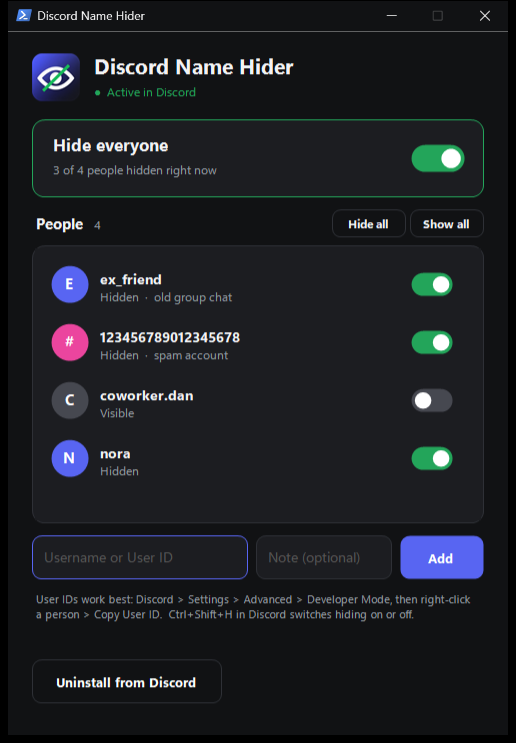
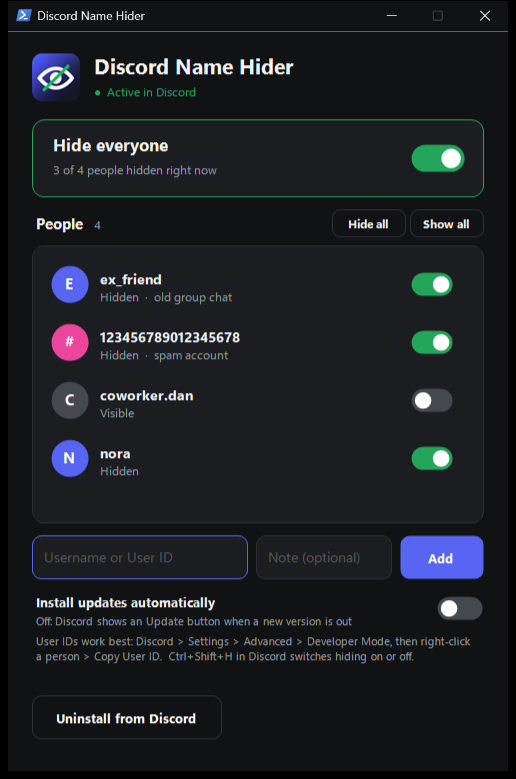
v1.5.0: one-click or automatic updates, daily Vencord check

diff --git a/plugin/hideUsers/native.ts b/plugin/hideUsers/native.ts
@@ -3,6 +3,7 @@
  * DiscordNameHider.exe edits, so changes apply live without a restart.
  */
 
+import { execFile } from "child_process";
 import { app, shell } from "electron";
 import { mkdirSync, readFileSync, renameSync, statSync, writeFileSync } from "fs";
 import { dirname, join } from "path";
@@ -29,6 +30,7 @@ export function writeState(_: unknown, text: string) {
 }
 
 const REPO = "rakawe86/discord-name-hider";
+const VERSION_RE = /^\d+(\.\d+)*$/;
 
 /** True when version a is newer than b ("1.4.10" > "1.4.9"). */
 function isNewer(a: string, b: string) {
@@ -45,7 +47,7 @@ export async function checkUpdate() {
         const res = await fetch(`https://api.github.com/repos/${REPO}/releases/latest`, { headers: { "User-Agent": "DiscordNameHider" } });
         if (!res.ok) return null;
         const latest = String((await res.json())?.tag_name ?? "").replace(/^v/, "");
-        return /^\d+(\.\d+)*$/.test(latest) && /^\d+(\.\d+)*$/.test(installed) && isNewer(latest, installed) ? latest : null;
+        return VERSION_RE.test(latest) && VERSION_RE.test(installed) && isNewer(latest, installed) ? latest : null;
     } catch {
         return null; // offline or GitHub down: try again later
     }
@@ -54,3 +56,50 @@ export async function checkUpdate() {
 export function openDownload() {
     shell.openExternal(`https://github.com/${REPO}/releases/latest`);
 }
+
+
+// Downloads the release exe from this project's GitHub and lets it refresh the installed files.
+// Discord keeps running; the new version is used from the next Discord start.
+async function downloadAndApply(version: string) {
+    if (!VERSION_RE.test(version)) return false;
+    try {
+        const res = await fetch(`https://github.com/${REPO}/releases/download/v${version}/DiscordNameHider.exe`);
+        if (!res.ok) return false;
+        const exe = Buffer.from(await res.arrayBuffer());
+        if (exe.length < 100_000 || exe[0] !== 0x4d || exe[1] !== 0x5a) return false; // must be a Windows program
+        const dir = join(process.env.LOCALAPPDATA ?? "", "DiscordNameHider", "updates");
+        mkdirSync(dir, { recursive: true });
+        const file = join(dir, `DiscordNameHider-v${version}.exe`);
+        writeFileSync(file + ".tmp", exe);
+        renameSync(file + ".tmp", file);
+        return await new Promise<boolean>(done =>
+            execFile(file, ["--update-files"], { timeout: 120_000, windowsHide: true }, err => done(!err)));
+    } catch {
+        return false;
+    }
+}
+
+export async function installUpdate(_: unknown, version: string) {
+    return downloadAndApply(String(version));
+}
+
+export function restartDiscord() {
+    app.relaunch();
+    app.exit(0);
+}
+
+/** "Update automatically" mode. Runs in Discord's main process, so it still works when Discord's window hangs. */
+export async function runAutoUpdate() {
+    try {
+        if (JSON.parse(readFileSync(STATE_FILE, "utf8"))?.autoUpdate !== true) return false;
+        const version = await checkUpdate();
+        return version ? await downloadAndApply(version) : false;
+    } catch {
+        return false;
+    }
+}
+
+function autoUpdateLoop() {
+    runAutoUpdate().finally(() => setTimeout(autoUpdateLoop, 6 * 60 * 60 * 1000));
+}
+setTimeout(autoUpdateLoop, 60_000);

diff --git a/plugin/hideUsers/index.ts b/plugin/hideUsers/index.ts
@@ -18,7 +18,7 @@ const Native = VencordNative.pluginHelpers.HideUsers as PluginNative<typeof impo
 const PrivateChannelSortStore = findStoreLazy("PrivateChannelSortStore");
 
 interface Entry { value: string; label?: string; hidden: boolean; }
-interface State { enabled: boolean; users: Entry[]; }
+interface State { enabled: boolean; users: Entry[]; autoUpdate?: boolean; }
 
 let state: State = { enabled: true, users: [] };
 let lastMtime = 0;
@@ -308,6 +308,7 @@ async function poll() {
     try {
         const parsed = JSON.parse(res.text);
         next = {
+            ...parsed, // keep settings this plugin doesn't use (autoUpdate), so Ctrl+Shift+H doesn't erase them
             enabled: parsed.enabled !== false,
             users: Array.isArray(parsed.users) ? parsed.users.filter((u: any) => typeof u?.value === "string") : []
         };
@@ -335,9 +336,18 @@ let announced = "";
 
 async function checkForUpdate() {
     const version = await Native.checkUpdate().catch(() => null);
-    if (version && version !== announced) {
+    // With "Update automatically" on, Discord's main process installs it quietly instead.
+    if (version && version !== announced && !state.autoUpdate) {
         announced = version;
-        showNotice(`Discord Name Hider v${version} is available.`, "Download", () => { popNotice(); Native.openDownload(); });
+        showNotice(`Discord Name Hider v${version} is available.`, "Update", async () => {
+            popNotice();
+            showToast({ text: "Updating Discord Name Hider... Discord will restart." });
+            if (await Native.installUpdate(version).catch(() => false)) Native.restartDiscord();
+            else {
+                showToast({ text: "Update failed. Opening the download page.", variant: "critical" });
+                Native.openDownload();
+            }
+        });
     }
     updateTimer = setTimeout(checkForUpdate, 6 * 60 * 60 * 1000);
 }

diff --git a/tool/NameHider.cs b/tool/NameHider.cs
@@ -29,9 +29,26 @@ static class Program
     [DllImport("user32.dll")]
     static extern bool SetProcessDPIAware();
 
+    public static string StartupMessage = "";
+
     [STAThread]
-    static void Main()
+    static void Main(string[] args)
     {
+        try { File.Delete(Application.ExecutablePath + ".old"); } catch { } // left by a self-update
+
+        // Sent by the plugin inside Discord: refresh the installed files, no window, Discord keeps running.
+        if (args.Contains("--update-files"))
+        {
+            try { Hider.UpdateFiles(); Environment.Exit(0); }
+            catch { Environment.Exit(1); }
+        }
+        // Sent by an older copy of this app after downloading this one.
+        if (args.Contains("--install"))
+        {
+            try { Hider.Install(); StartupMessage = "Updated to v" + Hider.Version + ". Discord is restarting."; }
+            catch (Exception ex) { StartupMessage = "Error: " + ex.Message; }
+        }
+
         SetProcessDPIAware(); // sharp text instead of a blurry stretched window
         Application.EnableVisualStyles();
         Application.SetCompatibleTextRenderingDefault(false);
@@ -49,12 +66,13 @@ class Person
 class HiderState
 {
     public bool enabled = true;
+    public bool autoUpdate;
     public List<Person> users = new List<Person>();
 }
 
 static class Hider
 {
-    public const string Version = "1.4.1"; // bump for every release; the GitHub tag must be "v" + this
+    public const string Version = "1.5.0"; // bump for every release; the GitHub tag must be "v" + this
     const string Repo = "rakawe86/discord-name-hider";
     public const string DownloadPage = "https://github.com/" + Repo + "/releases/latest";
 
@@ -80,6 +98,38 @@ static class Hider
             }
         }
         catch { return null; }
+    }
+
+    public static string InstalledVersion()
+    {
+        try { return File.ReadAllText(Path.Combine(DistDir, "version.txt")).Trim(); } catch { return ""; }
+    }
+
+    // Downloads a release exe from this project's GitHub. Throws on anything that isn't a Windows program.
+    public static string DownloadRelease(string version)
+    {
+        if (!Regex.IsMatch(version, @"^\d+(\.\d+)*$")) throw new ArgumentException("Bad version: " + version);
+        var dir = Path.Combine(Path.GetDirectoryName(DistDir), "updates");
+        Directory.CreateDirectory(dir);
+        var file = Path.Combine(dir, "DiscordNameHider-v" + version + ".exe");
+        ServicePointManager.SecurityProtocol |= SecurityProtocolType.Tls12;
+        using (var web = new WebClient())
+        {
+            web.Headers[HttpRequestHeader.UserAgent] = "DiscordNameHider";
+            var bytes = web.DownloadData("https://github.com/" + Repo + "/releases/download/v" + version + "/DiscordNameHider.exe");
+            if (bytes.Length < 100000 || bytes[0] != 'M' || bytes[1] != 'Z') throw new Exception("The download was not a valid app.");
+            File.WriteAllBytes(file + ".tmp", bytes);
+        }
+        if (File.Exists(file)) File.Delete(file);
+        File.Move(file + ".tmp", file);
+        return file;
+    }
+
+    // Refresh the files Discord loads, without closing Discord; they're used from its next start.
+    public static void UpdateFiles()
+    {
+        if (!IsInstalled()) throw new InvalidOperationException("Not installed in Discord.");
+        ExtractDist();
     }
 
     static readonly string LocalApp = Environment.GetFolderPath(Environment.SpecialFolder.LocalApplicationData);
@@ -759,7 +809,7 @@ class MainForm : Form
     DateTime lastWrite;
     bool needsUpdate, recheck = true, confirmUninstall;
 
-    readonly ToggleSwitch master;
+    readonly ToggleSwitch master, autoSwitch;
     readonly Card masterCard;
     readonly Label masterText, masterSub, installBadge, footer, countLabel;
     readonly PeopleList people;
@@ -780,7 +830,7 @@ class MainForm : Form
         AutoScaleMode = AutoScaleMode.Dpi;
         DoubleBuffered = true;
         Text = "Discord Name Hider";
-        ClientSize = new Size(500, 704);
+        ClientSize = new Size(500, 740);
         FormBorderStyle = FormBorderStyle.FixedSingle;
         MaximizeBox = false;
         StartPosition = FormStartPosition.CenterScreen;
@@ -795,13 +845,15 @@ class MainForm : Form
         Controls.Add(new Label { Text = "Discord Name Hider", Font = Theme.F(16f, true), AutoSize = true, Location = new Point(82, 20), BackColor = Theme.Bg });
         installBadge = new Label { AutoSize = true, Location = new Point(84, 52), Font = Theme.F(9f), BackColor = Theme.Bg };
         Controls.Add(installBadge);
-        var updateLink = new ModernButton { Location = new Point(332, 28), Size = new Size(144, 34), Visible = false, Font = Theme.F(9f, true) };
-        updateLink.Click += (s, e) => Process.Start(Hider.DownloadPage);
+        var updateLink = new ModernButton { Location = new Point(316, 28), Size = new Size(160, 34), Visible = false, Font = Theme.F(9f, true) };
+        string latest = null;
+        updateLink.Click += (s, e) => SelfUpdate(updateLink, latest);
         Controls.Add(updateLink);
         Task.Factory.StartNew(() => Hider.LatestRelease()).ContinueWith(t =>
         {
             if (t.Result == null || IsDisposed) return;
-            updateLink.Text = "Get v" + t.Result;
+            latest = t.Result;
+            updateLink.Text = "Update to v" + latest;
             updateLink.Visible = true;
         }, TaskScheduler.FromCurrentSynchronizationContext());
 
@@ -844,14 +896,21 @@ class MainForm : Form
         Controls.Add(new Label
         {
             Text = "User IDs work best: Discord > Settings > Advanced > Developer Mode, then right-click a person > Copy User ID.  Ctrl+Shift+H in Discord switches hiding on or off.",
-            ForeColor = Theme.Muted, Font = Theme.F(8.5f), Location = new Point(26, 560), Size = new Size(450, 52), BackColor = Theme.Bg
+            ForeColor = Theme.Muted, Font = Theme.F(8.5f), Location = new Point(26, 602), Size = new Size(450, 52), BackColor = Theme.Bg
         });
 
+        // Updates: off = Discord shows an "Update" button; on = installed quietly, used from the next Discord start.
+        Controls.Add(new Label { Text = "Install updates automatically", Font = Theme.F(10f, true), AutoSize = true, Location = new Point(26, 562), BackColor = Theme.Bg });
+        Controls.Add(new Label { Text = "Off: Discord shows an Update button when a new version is out", ForeColor = Theme.Muted, Font = Theme.F(8.5f), AutoSize = true, Location = new Point(26, 582), BackColor = Theme.Bg });
+        autoSwitch = new ToggleSwitch { Location = new Point(428, 564), Size = new Size(48, 26), BackColor = Theme.Bg, AccessibleName = "Install updates automatically" };
+        autoSwitch.Toggled += (s, e) => { state.autoUpdate = autoSwitch.On; Save(); };
+        Controls.Add(autoSwitch);
+
         // Footer
-        installBtn = new ModernButton { Location = new Point(24, 628), Size = new Size(190, 44) };
+        installBtn = new ModernButton { Location = new Point(24, 664), Size = new Size(190, 44) };
         installBtn.Click += (s, e) => InstallOrUninstall();
         installBtn.MouseLeave += (s, e) => { if (confirmUninstall) { confirmUninstall = false; RefreshStatus(); } };
-        footer = new Label { ForeColor = Theme.Muted, Location = new Point(226, 628), Size = new Size(250, 44), TextAlign = ContentAlignment.MiddleLeft, Font = Theme.F(9f), BackColor = Theme.Bg };
+        footer = new Label { Text = Program.StartupMessage, ForeColor = Program.StartupMessage.StartsWith("Error") ? Theme.Red : Theme.Green, Location = new Point(226, 664), Size = new Size(250, 44), TextAlign = ContentAlignment.MiddleLeft, Font = Theme.F(9f), BackColor = Theme.Bg };
         Controls.AddRange(new Control[] { installBtn, footer });
         ResumeLayout(false);
         ActiveControl = addValue;
@@ -937,6 +996,7 @@ class MainForm : Form
     void RefreshStatus()
     {
         master.On = state.enabled;
+        autoSwitch.On = state.autoUpdate;
         masterCard.BorderColor = state.enabled ? Theme.Green : Theme.Border;
         masterCard.Invalidate();
         masterText.ForeColor = state.enabled ? Theme.Text : Theme.Muted;
@@ -948,10 +1008,11 @@ class MainForm : Form
 
         bool installed = Hider.IsInstalled();
         bool hasDiscord = Hider.InstalledDiscords().Count > 0;
-        if (recheck) { needsUpdate = installed && Hider.NeedsUpdate(); recheck = false; }
+        // Never offer to "update" Discord to an older version than the one already installed.
+        if (recheck) { needsUpdate = installed && Hider.NeedsUpdate() && !Hider.IsNewer(Hider.InstalledVersion(), Hider.Version); recheck = false; }
         installBadge.Text = !hasDiscord ? "●  Discord app not found"
             : needsUpdate ? "●  New version ready: click Update"
-            : installed ? "●  Active in Discord" : "●  Not installed in Discord yet";
+            : installed ? "●  Active in Discord  ·  v" + Hider.InstalledVersion() : "●  Not installed in Discord yet";
         installBadge.ForeColor = !hasDiscord ? Theme.Red : installed && !needsUpdate ? Theme.Green : Theme.Amber;
 
         bool primary = !installed || needsUpdate;
@@ -1009,6 +1070,41 @@ class MainForm : Form
     {
         foreach (var p in state.users) p.hidden = hidden;
         Save();
+    }
+
+    // Download the new release, swap it in for this exe, and let it install itself.
+    void SelfUpdate(ModernButton button, string version)
+    {
+        if (version == null) return;
+        button.Enabled = false;
+        button.Text = "Downloading...";
+        Task.Factory.StartNew(() =>
+        {
+            var file = Hider.DownloadRelease(version);
+            try
+            {
+                // Replace this exe so an old copy can't be opened by mistake later.
+                var me = Application.ExecutablePath;
+                if (File.Exists(me + ".old")) File.Delete(me + ".old");
+                File.Move(me, me + ".old");
+                File.Copy(file, me);
+                file = me;
+            }
+            catch { } // read-only folder: run it from the updates folder instead
+            return file;
+        }).ContinueWith(t =>
+        {
+            if (t.IsFaulted)
+            {
+                footer.ForeColor = Theme.Red;
+                footer.Text = "Update failed: " + t.Exception.GetBaseException().Message;
+                button.Enabled = true;
+                button.Text = "Update to v" + version;
+                return;
+            }
+            Process.Start(t.Result, "--install");
+            Close();
+        }, TaskScheduler.FromCurrentSynchronizationContext());
     }
 
     void InstallOrUninstall()

diff --git a/README.md b/README.md
@@ -77,9 +77,11 @@ No. It re-applies itself automatically after Discord updates.
 <details>
 <summary><b>How do I update?</b></summary>
 <br>
-When a new version is out, Discord shows a bar saying so with a <b>Download</b> button, and the app shows a <b>Get vX</b> button.
-Download the new .exe, open it and click <b>Update</b>. Your list is kept.
-The check only contacts GitHub (never Discord), at most every few hours.
+You choose in the app with <b>Install updates automatically</b>:<br>
+<b>Off</b> (default): when a new version is out, Discord shows a bar with an <b>Update</b> button. One click and Discord restarts with it.<br>
+<b>On</b>: updates install quietly and are used from the next time Discord starts. Discord is never closed on you.<br>
+The app also shows an <b>Update to vX</b> button. Your list is always kept. Updates are only downloaded from this GitHub page,
+and the check only contacts GitHub (never Discord), at most every few hours.
 </details>
 
 <details>
